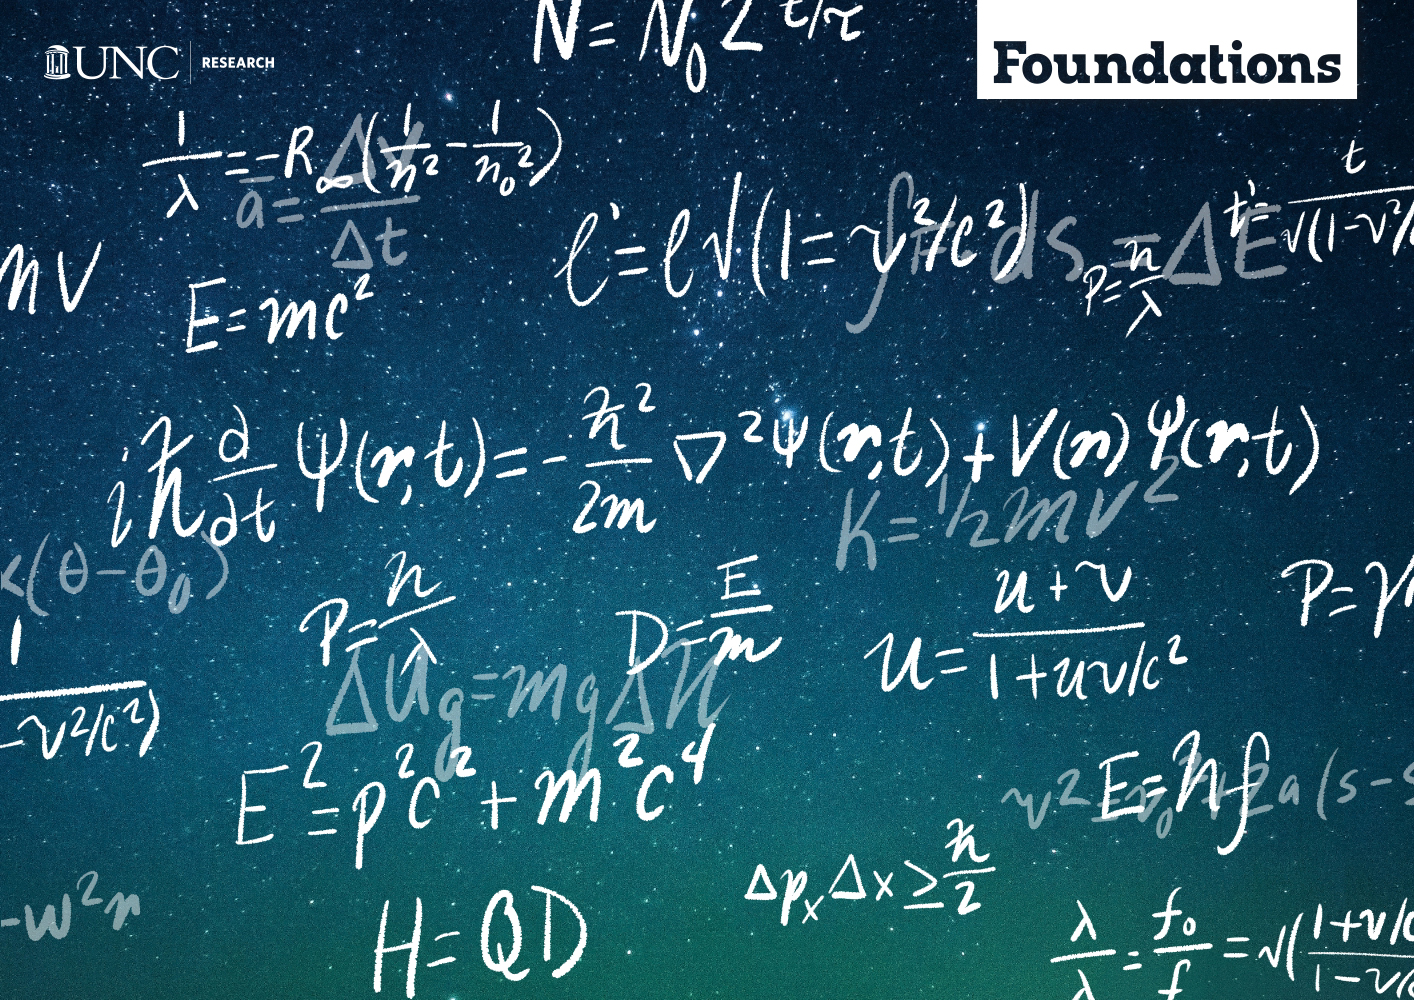
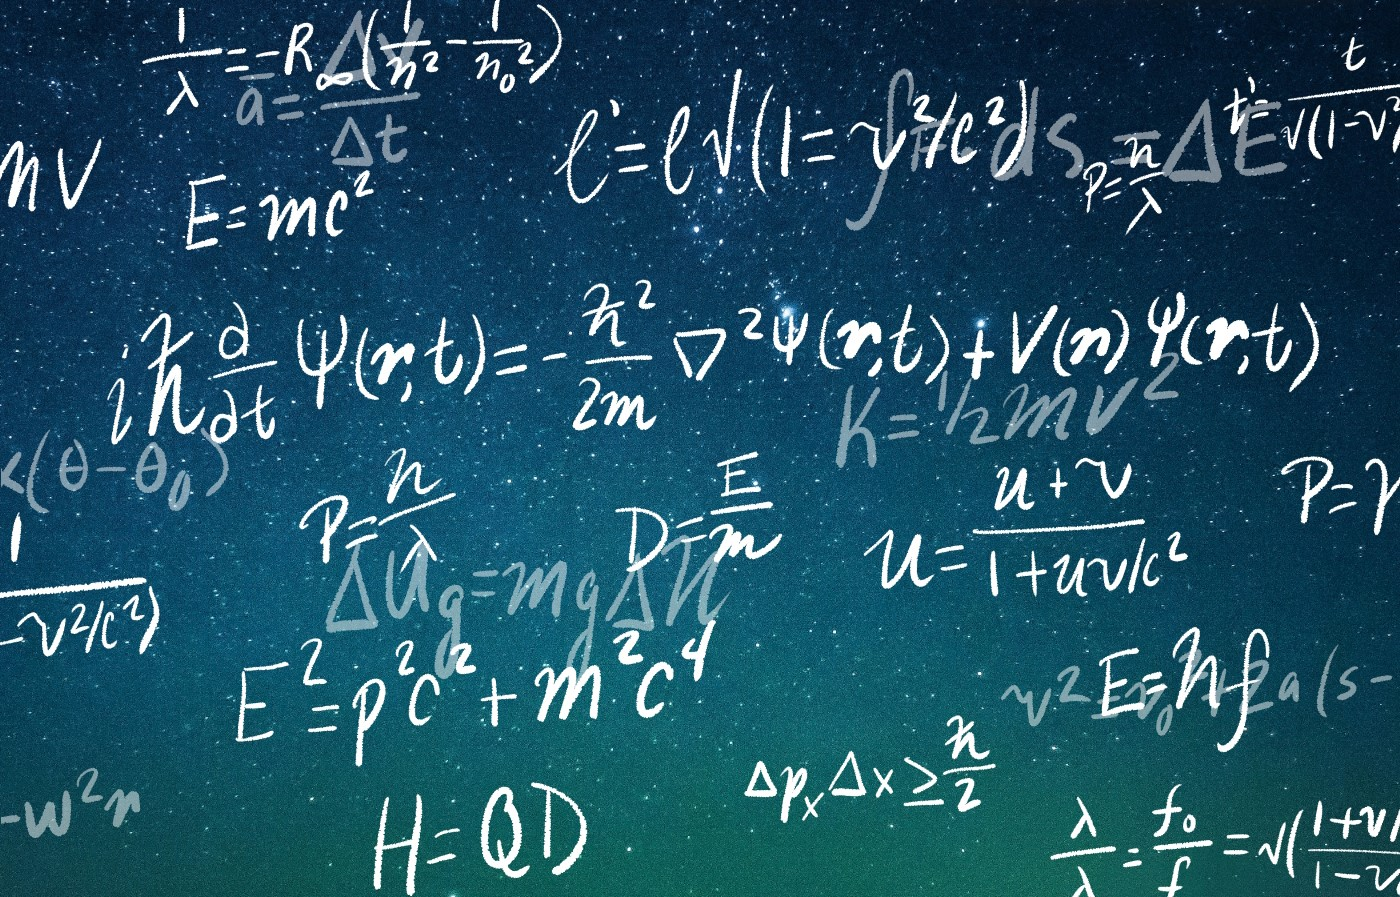
added equations for education overlay

diff --git a/res/js/overlay.js b/res/js/overlay.js
@@ -50,7 +50,7 @@ overlay_config = {
         above: "education"
     },
     "education": {
-        offset: "20%",
+        offset: "40%",
         above: "none"
     }
 };
